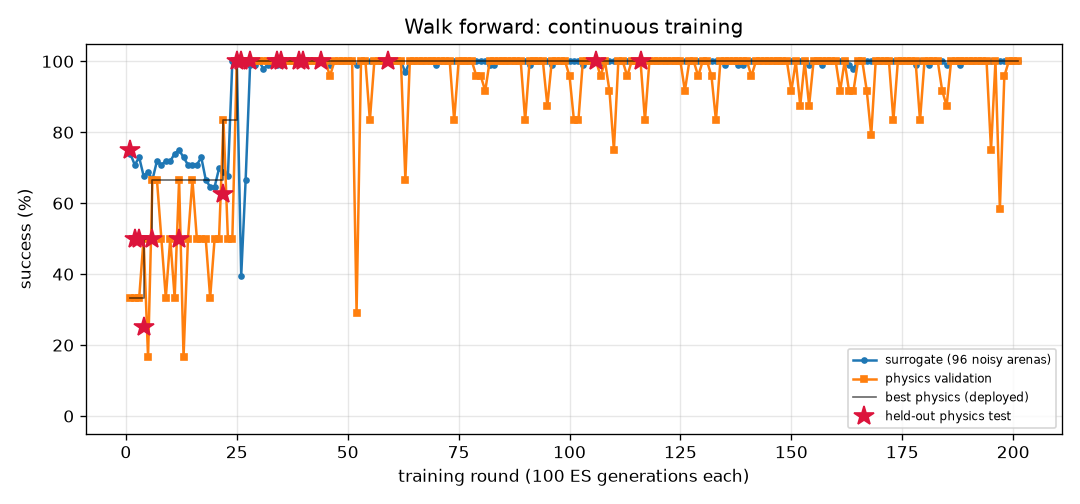
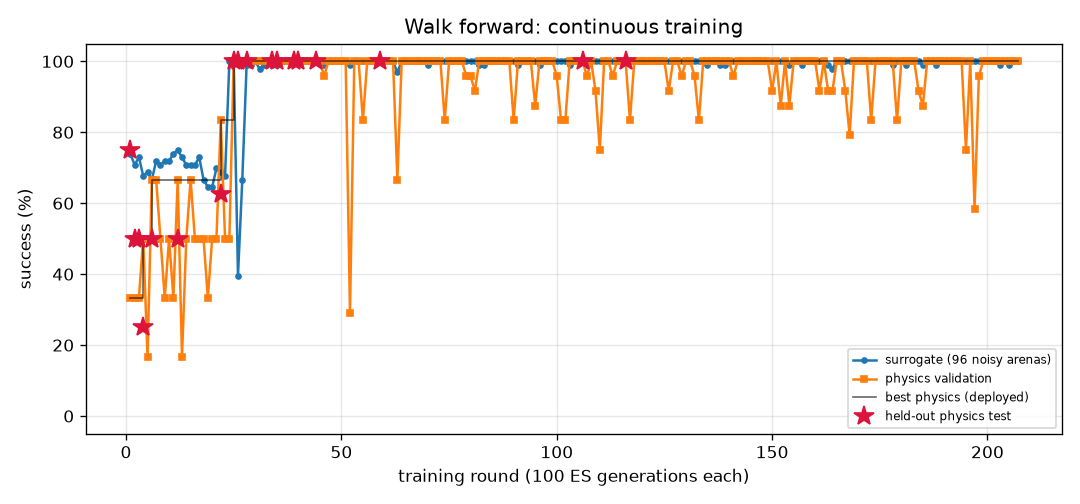
FlyLab: continuous training progress
- walk_forward: optimal, physics val 100% of 24, round 207
- turn: optimal, physics val 100% of 24, round 698
- goto: optimal, physics val 100% of 24, round 177
- odor_seek: optimal, physics val 100% of 24, round 153
- odor_avoid: optimal, physics val 100% of 24, round 656
- light_seek: optimal, physics val 100% of 24, round 370
- light_avoid: optimal, physics val 100% of 24, round 391

diff --git a/projects/09_flylab/training/walk_forward/REPORT.md b/projects/09_flylab/training/walk_forward/REPORT.md
@@ -1,14 +1,14 @@
 # Walk forward (`walk_forward`) — training report
 
-*Auto-generated by `train_brains.py`, last updated 2026-10-26T23:18:12.*
+*Auto-generated by `train_brains.py`, last updated 2026-10-27T11:55:14.*
 
 ![curve](curve.png)
 
 | | |
 |---|---|
-| rounds | 201 |
-| ES generations | 20100 |
-| physics runs | 4838 |
+| rounds | 207 |
+| ES generations | 20700 |
+| physics runs | 4982 |
 | status | **optimal** |
 | best brain | round 116: physics validation **100%** on 24 arenas, surrogate 100% |
 | held-out physics test | **100%** on 32 unseen arenas (95% CI 89%-100%) (errors: [0.13, 0.16, 0.19, 0.16, 0.15, 0.2, 0.17, 0.18, 0.17, 0.19, 0.2, 0.14, 0.17, 0.19, 0.2, 0.2, 0.13, 0.19, 0.16, 0.2, 0.2, 0.16, 0.17, 0.2, 0.13, 0.15, 0.18, 0.14, 0.16, 0.15, 0.19, 0.12]) |
@@ -17,12 +17,6 @@ Physics error per arena: mm from target at the end (< 1.5 and standing still = s
 
 | round | level | gens | sigma | surrogate | physics val | val errors | test | note |
 |---:|---:|---:|---:|---:|---:|---|---:|---|
-| 162 | 3 | 16200 | 0.024 | 100% | 100% | [0.11, 0.17, 0.15, 0.11, 0.16, 0.16, 0.18, 0.12, 0.17, 0.23, 0.17, 0.23, 0.13, 0.16, 0.11, 0.23, 0.1, 0.14, 0.11, 0.12, 0.11, 0.23, 0.24, 0.13] |  |  |
-| 163 | 3 | 16300 | 0.024 | 99% | 92% | [0.15, 0.2, 0.22, 0.12, 0.19, 0.21, 0.22, 0.2, 0.21, 0.26, 0.23, 0.27, 0.19, 0.21, 0.13, 0.27, 0.3, 0.17, 0.19, 0.15, 0.17, 0.27, 0.27, 0.19] |  |  |
-| 164 | 3 | 16400 | 0.025 | 98% | 92% | [0.12, 0.25, 0.07, 0.12, 0.24, 0.09, 0.27, 0.14, 0.25, 0.3, 0.1, 0.07, 0.1, 0.06, 0.11, 0.08, 0.14, 0.19, 0.15, 0.13, 0.59, 0.29, 0.11, 0.21] |  | restart from best |
-| 165 | 3 | 16500 | 0.024 | 100% | 100% | [0.16, 0.16, 0.13, 0.16, 0.16, 0.12, 0.16, 0.15, 0.16, 0.15, 0.11, 0.14, 0.15, 0.12, 0.16, 0.14, 0.16, 0.17, 0.15, 0.17, 0.15, 0.15, 0.14, 0.15] |  |  |
-| 166 | 3 | 16600 | 0.024 | 100% | 100% | [0.19, 0.29, 0.13, 0.19, 0.29, 0.14, 0.28, 0.12, 0.28, 0.28, 0.14, 0.25, 0.12, 0.13, 0.23, 0.27, 0.17, 0.28, 0.13, 0.24, 0.14, 0.28, 0.25, 0.12] |  |  |
-| 167 | 3 | 16700 | 0.024 | 100% | 92% | [0.09, 0.17, 0.04, 0.02, 0.16, 0.05, 0.19, 0.57, 0.18, 0.23, 0.04, 0.25, 0.45, 0.04, 0.11, 0.24, 0.73, 0.07, 0.55, 0.15, 0.44, 0.24, 0.25, 0.09] |  |  |
 | 168 | 3 | 16800 | 0.024 | 100% | 79% | [0.04, 0.2, 0.11, 0.11, 0.32, 0.05, 0.38, 0.09, 0.07, 0.55, 0.14, 0.33, 0.08, 0.06, 0.45, 0.21, 0.1, 0.18, 0.09, 0.05, 0.09, 0.37, 0.06, 0.08] |  | restart from best |
 | 169 | 3 | 16900 | 0.024 | 100% | 100% | [0.31, 0.3, 0.3, 0.31, 0.31, 0.29, 0.3, 0.3, 0.3, 0.29, 0.27, 0.27, 0.3, 0.29, 0.31, 0.28, 0.31, 0.31, 0.3, 0.31, 0.31, 0.28, 0.26, 0.3] |  |  |
 | 170 | 3 | 17000 | 0.024 | 100% | 100% | [0.14, 0.18, 0.13, 0.14, 0.17, 0.13, 0.18, 0.13, 0.18, 0.2, 0.13, 0.22, 0.13, 0.13, 0.14, 0.21, 0.14, 0.16, 0.13, 0.16, 0.13, 0.2, 0.21, 0.13] |  |  |
@@ -57,3 +51,9 @@ Physics error per arena: mm from target at the end (< 1.5 and standing still = s
 | 199 | 3 | 19900 | 0.024 | 100% | 100% | [0.17, 0.22, 0.16, 0.18, 0.22, 0.17, 0.23, 0.17, 0.22, 0.24, 0.16, 0.23, 0.18, 0.17, 0.19, 0.23, 0.18, 0.21, 0.17, 0.19, 0.17, 0.24, 0.23, 0.17] |  |  |
 | 200 | 3 | 20000 | 0.024 | 100% | 100% | [0.15, 0.21, 0.05, 0.14, 0.19, 0.06, 0.14, 0.05, 0.16, 0.23, 0.12, 0.21, 0.07, 0.06, 0.2, 0.24, 0.12, 0.19, 0.09, 0.2, 0.11, 0.26, 0.24, 0.05] |  | restart from best |
 | 201 | 3 | 20100 | 0.024 | 100% | 100% | [0.27, 0.25, 0.26, 0.27, 0.25, 0.25, 0.26, 0.27, 0.25, 0.23, 0.24, 0.22, 0.27, 0.25, 0.27, 0.22, 0.28, 0.26, 0.27, 0.27, 0.28, 0.23, 0.21, 0.27] |  |  |
+| 202 | 3 | 20200 | 0.024 | 100% | 100% | [0.25, 0.26, 0.23, 0.25, 0.26, 0.22, 0.26, 0.23, 0.26, 0.27, 0.22, 0.26, 0.23, 0.22, 0.25, 0.27, 0.25, 0.26, 0.23, 0.25, 0.23, 0.27, 0.26, 0.23] |  |  |
+| 203 | 3 | 20300 | 0.024 | 99% | 100% | [0.23, 0.24, 0.21, 0.23, 0.16, 0.11, 0.22, 0.17, 0.23, 0.28, 0.09, 0.2, 0.2, 0.18, 0.24, 0.28, 0.23, 0.22, 0.17, 0.23, 0.16, 0.28, 0.24, 0.22] |  |  |
+| 204 | 3 | 20400 | 0.025 | 100% | 100% | [0.22, 0.21, 0.23, 0.23, 0.21, 0.23, 0.22, 0.24, 0.21, 0.17, 0.22, 0.15, 0.23, 0.23, 0.22, 0.18, 0.23, 0.22, 0.24, 0.22, 0.23, 0.15, 0.17, 0.23] |  | restart from best |
+| 205 | 3 | 20500 | 0.024 | 99% | 100% | [0.25, 0.29, 0.16, 0.25, 0.29, 0.16, 0.29, 0.18, 0.29, 0.27, 0.16, 0.24, 0.18, 0.16, 0.26, 0.26, 0.23, 0.28, 0.19, 0.28, 0.21, 0.26, 0.23, 0.17] |  |  |
+| 206 | 3 | 20600 | 0.025 | 100% | 100% | [0.16, 0.25, 0.15, 0.16, 0.24, 0.16, 0.26, 0.15, 0.25, 0.29, 0.16, 0.28, 0.14, 0.16, 0.18, 0.29, 0.14, 0.23, 0.15, 0.18, 0.14, 0.29, 0.29, 0.15] |  |  |
+| 207 | 3 | 20700 | 0.024 | 100% | 100% | [0.35, 0.23, 0.33, 0.34, 0.32, 0.31, 0.23, 0.37, 0.22, 0.36, 0.25, 0.38, 0.35, 0.31, 0.35, 0.41, 0.3, 0.22, 0.37, 0.24, 0.38, 0.4, 0.38, 0.35] |  |  |

diff --git a/projects/09_flylab/training/light_seek/REPORT.md b/projects/09_flylab/training/light_seek/REPORT.md
@@ -1,14 +1,14 @@
 # Walk toward light (`light_seek`) — training report
 
-*Auto-generated by `train_brains.py`, last updated 2026-10-26T22:27:29.*
+*Auto-generated by `train_brains.py`, last updated 2026-10-27T11:52:04.*
 
 ![curve](curve.png)
 
 | | |
 |---|---|
-| rounds | 365 |
-| ES generations | 36500 |
-| physics runs | 5608 |
+| rounds | 370 |
+| ES generations | 37000 |
+| physics runs | 5728 |
 | status | **optimal** |
 | best brain | round 295: physics validation **100%** on 24 arenas, surrogate 100% |
 | held-out physics test | **100%** on 32 unseen arenas (95% CI 89%-100%) (errors: [0.58, 0.62, 0.61, 0.63, 0.65, 0.65, 0.73, 0.55, 0.64, 0.59, 0.59, 0.58, 0.69, 0.61, 0.59, 0.6, 0.6, 0.63, 0.59, 0.64, 0.61, 1.11, 0.62, 0.58, 0.58, 0.58, 0.67, 0.63, 0.58, 0.66, 0.67, 0.59]) |
@@ -17,11 +17,6 @@ Physics error per arena: mm from target at the end (< 1.5 and standing still = s
 
 | round | level | gens | sigma | surrogate | physics val | val errors | test | note |
 |---:|---:|---:|---:|---:|---:|---|---:|---|
-| 326 | 3 | 32600 | 0.024 | 100% | 100% | [0.49, 0.53, 0.58, 0.49, 0.56, 0.61, 0.64, 0.54, 1.15, 0.57, 0.67, 0.54, 0.64, 1.19, 0.61, 0.5, 0.58, 0.56, 0.47, 1.01, 1.22, 0.55, 0.58, 1.24] |  |  |
-| 327 | 3 | 32700 | 0.024 | 100% | 100% | [1.0, 0.58, 0.5, 0.58, 0.5, 0.54, 0.54, 0.67, 0.52, 0.53, 0.55, 0.51, 0.66, 0.55, 0.55, 0.5, 0.59, 0.57, 0.51, 0.54, 0.62, 0.59, 0.5, 0.58] |  | restart from best |
-| 328 | 3 | 32800 | 0.024 | 100% | 96% | [0.62, 1.19, 0.97, 0.74, 0.71, 1.51, 0.67, 1.28, 0.97, 0.7, 1.02, 1.46, 0.62, 0.64, 1.02, 0.61, 1.01, 0.8, 1.38, 0.61, 1.3, 1.31, 0.67, 0.94] |  |  |
-| 329 | 3 | 32900 | 0.024 | 100% | 100% | [0.61, 0.67, 0.93, 1.02, 0.63, 0.63, 0.7, 0.98, 0.91, 0.69, 0.57, 0.65, 0.71, 1.04, 0.98, 0.64, 0.96, 1.06, 0.67, 0.91, 0.65, 1.04, 1.24, 0.67] |  |  |
-| 330 | 3 | 33000 | 0.024 | 100% | 67% | [1.89, 1.07, 0.66, 3.75, 0.72, 0.82, 1.22, 1.35, 0.73, 0.66, 1.67, 0.68, 0.72, 3.54, 2.77, 0.59, 2.13, 1.88, 0.58, 0.98, 0.66, 4.15, 0.67, 0.98] |  |  |
 | 331 | 3 | 33100 | 0.024 | 100% | 96% | [0.65, 0.9, 0.65, 0.64, 0.95, 0.71, 0.52, 0.6, 0.67, 0.6, 0.69, 1.08, 0.99, 2.08, 1.19, 0.6, 0.96, 0.69, 0.73, 1.06, 0.54, 0.51, 0.58, 1.11] |  | restart from best |
 | 332 | 3 | 33200 | 0.024 | 100% | 100% | [1.19, 0.9, 0.82, 0.65, 0.65, 0.94, 0.8, 0.9, 1.45, 0.72, 0.76, 0.72, 0.94, 1.42, 1.08, 0.77, 0.85, 0.96, 0.64, 0.8, 1.15, 0.63, 1.48, 0.83] |  |  |
 | 333 | 3 | 33300 | 0.024 | 100% | 100% | [0.67, 0.7, 0.73, 0.84, 0.66, 0.87, 0.78, 0.77, 0.79, 0.74, 0.71, 0.79, 0.71, 0.6, 0.69, 0.7, 0.81, 0.59, 0.73, 0.66, 0.71, 0.87, 0.73, 0.86] |  |  |
@@ -57,3 +52,8 @@ Physics error per arena: mm from target at the end (< 1.5 and standing still = s
 | 363 | 3 | 36300 | 0.024 | 100% | 100% | [0.48, 0.54, 0.48, 0.57, 0.51, 0.64, 0.49, 0.48, 0.48, 0.52, 0.52, 0.5, 1.18, 0.5, 0.55, 0.53, 0.46, 0.48, 0.48, 0.5, 0.51, 0.5, 0.5, 0.51] |  | restart from best |
 | 364 | 3 | 36400 | 0.024 | 100% | 100% | [0.57, 0.53, 0.5, 0.55, 0.56, 0.74, 0.55, 0.86, 0.55, 0.51, 0.54, 0.5, 0.6, 0.59, 0.57, 0.7, 0.58, 0.5, 0.56, 0.53, 0.61, 0.5, 0.56, 0.67] |  |  |
 | 365 | 3 | 36500 | 0.024 | 100% | 100% | [0.63, 0.51, 0.59, 0.51, 0.48, 0.5, 0.46, 0.58, 0.7, 0.47, 0.62, 0.63, 0.54, 0.95, 0.7, 0.62, 0.49, 1.23, 0.47, 0.47, 0.58, 1.07, 0.47, 0.48] |  |  |
+| 366 | 3 | 36600 | 0.024 | 100% | 96% | [0.53, 0.57, 0.54, 0.58, 0.63, 0.54, 0.73, 0.52, 0.64, 0.64, 0.65, 0.56, 0.54, 0.57, 0.81, 0.55, 0.59, 0.58, 0.57, 0.65, 0.53, 1.83, 0.53, 0.54] |  |  |
+| 367 | 3 | 36700 | 0.024 | 100% | 100% | [0.51, 0.56, 0.5, 0.49, 0.72, 0.92, 0.57, 0.63, 0.51, 0.47, 0.48, 0.47, 0.54, 0.52, 0.5, 0.57, 0.64, 0.54, 0.55, 0.53, 0.5, 0.49, 0.51, 0.6] |  | restart from best |
+| 368 | 3 | 36800 | 0.024 | 100% | 100% | [1.1, 0.58, 0.55, 0.66, 0.54, 0.55, 0.65, 0.74, 0.57, 0.61, 0.58, 0.75, 0.59, 0.69, 0.61, 0.6, 0.56, 0.59, 0.57, 0.61, 0.57, 0.59, 1.18, 0.71] |  |  |
+| 369 | 3 | 36900 | 0.024 | 100% | 96% | [0.94, 0.46, 0.46, 0.64, 0.55, 0.45, 0.56, 0.57, 0.5, 0.54, 1.64, 0.54, 0.49, 0.52, 1.39, 0.58, 0.92, 1.01, 0.52, 0.55, 1.09, 0.51, 0.96, 0.5] |  |  |
+| 370 | 3 | 37000 | 0.024 | 100% | 100% | [0.52, 0.43, 0.42, 0.45, 0.43, 0.4, 0.41, 0.43, 0.84, 0.44, 0.55, 0.44, 0.4, 0.75, 0.43, 0.43, 0.43, 0.42, 0.56, 0.42, 0.47, 0.43, 0.46, 0.58] |  |  |

diff --git a/projects/09_flylab/training/light_avoid/REPORT.md b/projects/09_flylab/training/light_avoid/REPORT.md
@@ -1,14 +1,14 @@
 # Hide from light (`light_avoid`) — training report
 
-*Auto-generated by `train_brains.py`, last updated 2026-10-27T10:55:01.*
+*Auto-generated by `train_brains.py`, last updated 2026-10-27T11:01:17.*
 
 ![curve](curve.png)
 
 | | |
 |---|---|
-| rounds | 390 |
-| ES generations | 39000 |
-| physics runs | 9632 |
+| rounds | 391 |
+| ES generations | 39100 |
+| physics runs | 9656 |
 | status | **optimal** |
 | best brain | round 159: physics validation **100%** on 24 arenas, surrogate 100% |
 | held-out physics test | **100%** on 32 unseen arenas (95% CI 89%-100%) (errors: [14.4, 56.1, 58.0, 57.9, 57.5, 14.0, 14.4, 56.6, 56.8, 13.3, 14.1, 56.6, 57.6, 13.1, 57.3, 55.9, 57.2, 55.0, 55.2, 53.9, 55.2, 12.4, 53.8, 53.7, 14.1, 13.7, 55.0, 57.8, 56.2, 13.1, 52.8, 56.5]) |
@@ -17,7 +17,6 @@ Physics error per arena: mm gained away from source (> 6 without first approachi
 
 | round | level | gens | sigma | surrogate | physics val | val errors | test | note |
 |---:|---:|---:|---:|---:|---:|---|---:|---|
-| 351 | 3 | 35100 | 0.024 | 100% | 100% | [45.4, 47.3, 47.4, 45.5, 43.4, 45.2, 47.4, 14.5, 42.5, 13.4, 44.6, 42.8, 14.4, 42.5, 47.3, 45.3, 14.2, 44.2, 47.1, 14.4, 45.0, 43.5, 47.0, 41.9] |  | restart from best |
 | 352 | 3 | 35200 | 0.024 | 100% | 100% | [52.7, 55.0, 55.1, 52.8, 52.4, 52.9, 54.6, 14.5, 38.2, 13.3, 53.1, 52.2, 14.4, 54.5, 55.1, 52.7, 14.2, 53.3, 55.3, 14.4, 51.2, 54.2, 54.2, 51.2] |  |  |
 | 353 | 3 | 35300 | 0.024 | 100% | 100% | [40.0, 37.7, 37.6, 36.5, 33.8, 39.7, 37.8, 14.5, 13.0, 13.4, 34.3, 33.1, 14.4, 37.5, 38.1, 37.2, 14.2, 36.2, 39.0, 14.4, 37.2, 31.9, 37.9, 36.9] |  |  |
 | 354 | 3 | 35400 | 0.024 | 99% | 100% | [54.9, 59.5, 59.0, 56.7, 59.0, 55.9, 57.7, 14.5, 13.0, 13.4, 9.6, 58.8, 14.4, 58.0, 59.4, 54.7, 14.2, 59.5, 59.7, 14.4, 57.0, 50.1, 57.5, 58.3] |  |  |
@@ -57,3 +56,4 @@ Physics error per arena: mm gained away from source (> 6 without first approachi
 | 388 | 3 | 38800 | 0.024 | 100% | 100% | [41.0, 42.6, 42.1, 42.6, 44.7, 42.8, 40.3, 14.5, 42.4, 13.2, 44.5, 44.7, 14.3, 44.4, 42.1, 44.6, 14.2, 44.5, 42.2, 14.4, 45.4, 45.0, 40.9, 44.5] |  |  |
 | 389 | 3 | 38900 | 0.024 | 100% | 100% | [44.4, 47.4, 47.1, 46.0, 47.8, 46.8, 45.8, 14.5, 42.7, 13.5, 47.4, 47.8, 14.4, 47.2, 47.3, 47.7, 14.2, 48.4, 47.5, 14.4, 46.4, 47.1, 45.7, 47.2] |  |  |
 | 390 | 3 | 39000 | 0.024 | 100% | 100% | [51.6, 51.9, 51.9, 51.3, 46.9, 50.6, 52.4, 14.5, 47.0, 13.4, 49.0, 46.8, 14.4, 46.9, 51.9, 50.8, 14.2, 48.7, 52.3, 14.4, 51.8, 48.7, 52.2, 45.4] |  |  |
+| 391 | 3 | 39100 | 0.024 | 100% | 100% | [53.6, 55.6, 55.6, 53.4, 52.2, 53.1, 55.4, 14.5, 52.3, 13.4, 53.0, 51.8, 14.4, 50.4, 55.6, 53.7, 14.2, 53.3, 55.4, 14.4, 54.1, 53.1, 55.1, 50.7] |  | restart from best |

diff --git a/projects/09_flylab/training/TRAINING.md b/projects/09_flylab/training/TRAINING.md
@@ -1,15 +1,15 @@
 # FlyLab brains — continuous training log
 
-*Auto-generated by `train_brains.py`, last updated 2026-10-27T10:55:01.*
+*Auto-generated by `train_brains.py`, last updated 2026-10-27T11:55:14.*
 
 Every skill has its own brain and its own training process: surrogate ES rounds, physics validation in MuJoCo, keep-the-best selection, and a held-out physics test that is never used for selection. See each skill's report for its full round-by-round history. Mastery is progressive: passing a level (100% physics validation, >=95% surrogate) doubles the validation and test arena sets; a brain is **optimal** once it holds up at level 3 (>=95% of 24 validation arenas) AND scores >=90% on the 32 held-out test arenas. Test columns show 95% Wilson confidence intervals.
 
 | skill | rounds | ES generations | physics runs | surrogate | physics val | **physics test** | status |
 |---|---:|---:|---:|---:|---:|---:|---|
-| [Walk forward](walk_forward/REPORT.md) | 201 | 20100 | 4838 | 100% | 100% of 24 | 100% of 32 (CI 89-100%) | **optimal** |
+| [Walk forward](walk_forward/REPORT.md) | 207 | 20700 | 4982 | 100% | 100% of 24 | 100% of 32 (CI 89-100%) | **optimal** |
 | [Turn in place](turn/REPORT.md) | 698 | 69800 | 16998 | 100% | 100% of 24 | 97% of 32 (CI 84-99%) | **optimal** |
 | [Go to a location](goto/REPORT.md) | 177 | 17700 | 4198 | 100% | 100% of 24 | 100% of 32 (CI 89-100%) | **optimal** |
 | [Find food by smell](odor_seek/REPORT.md) | 153 | 15300 | 3102 | 100% | 100% of 24 | 100% of 32 (CI 89-100%) | **optimal** |
 | [Escape a bad smell](odor_avoid/REPORT.md) | 656 | 65600 | 13050 | 97% | 100% of 24 | 97% of 32 (CI 84-99%) | **optimal** |
-| [Walk toward light](light_seek/REPORT.md) | 365 | 36500 | 5608 | 100% | 100% of 24 | 100% of 32 (CI 89-100%) | **optimal** |
-| [Hide from light](light_avoid/REPORT.md) | 390 | 39000 | 9632 | 100% | 100% of 24 | 100% of 32 (CI 89-100%) | **optimal** |
+| [Walk toward light](light_seek/REPORT.md) | 370 | 37000 | 5728 | 100% | 100% of 24 | 100% of 32 (CI 89-100%) | **optimal** |
+| [Hide from light](light_avoid/REPORT.md) | 391 | 39100 | 9656 | 100% | 100% of 24 | 100% of 32 (CI 89-100%) | **optimal** |
